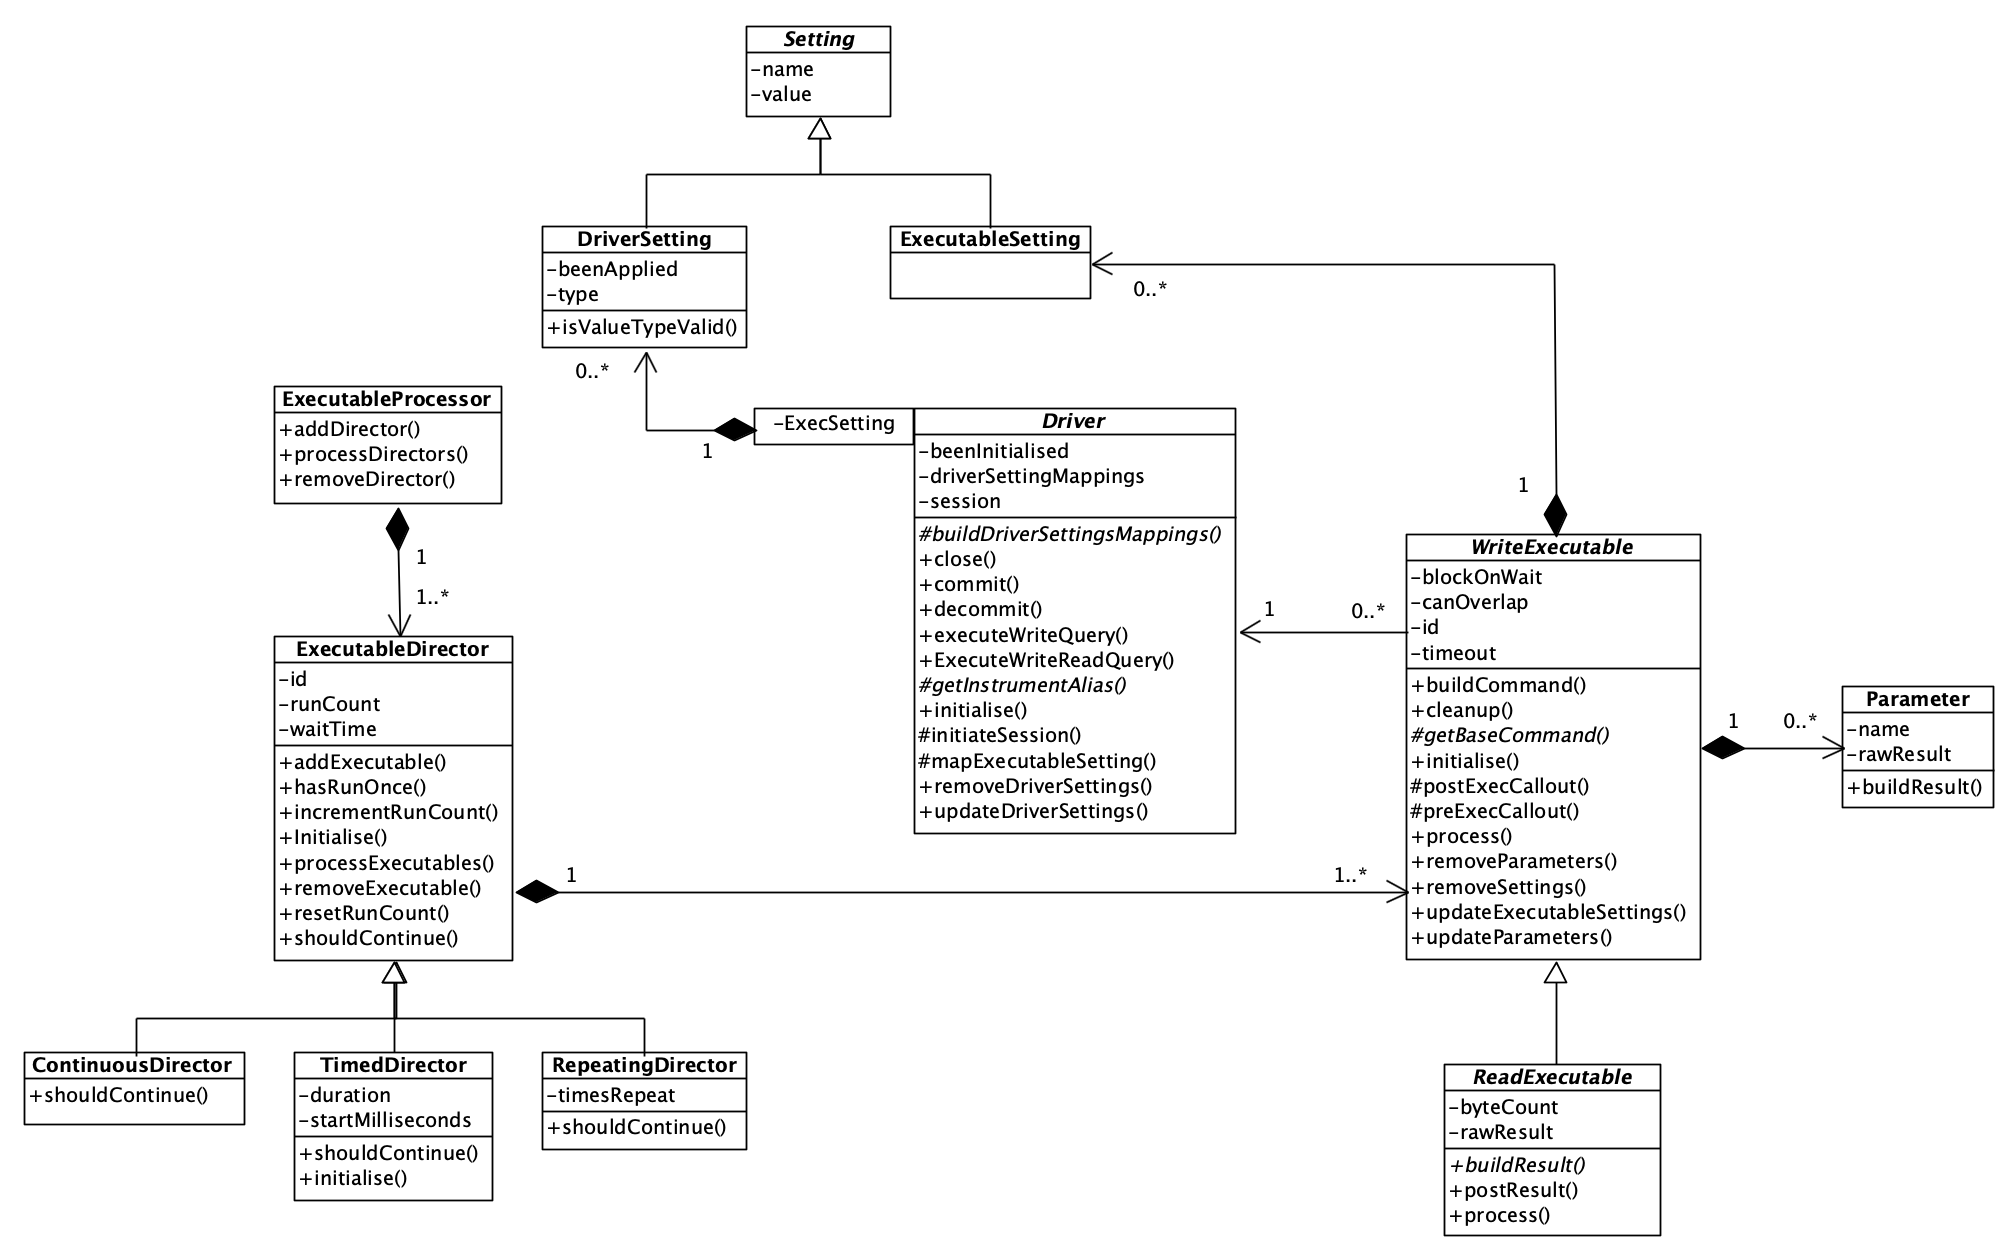
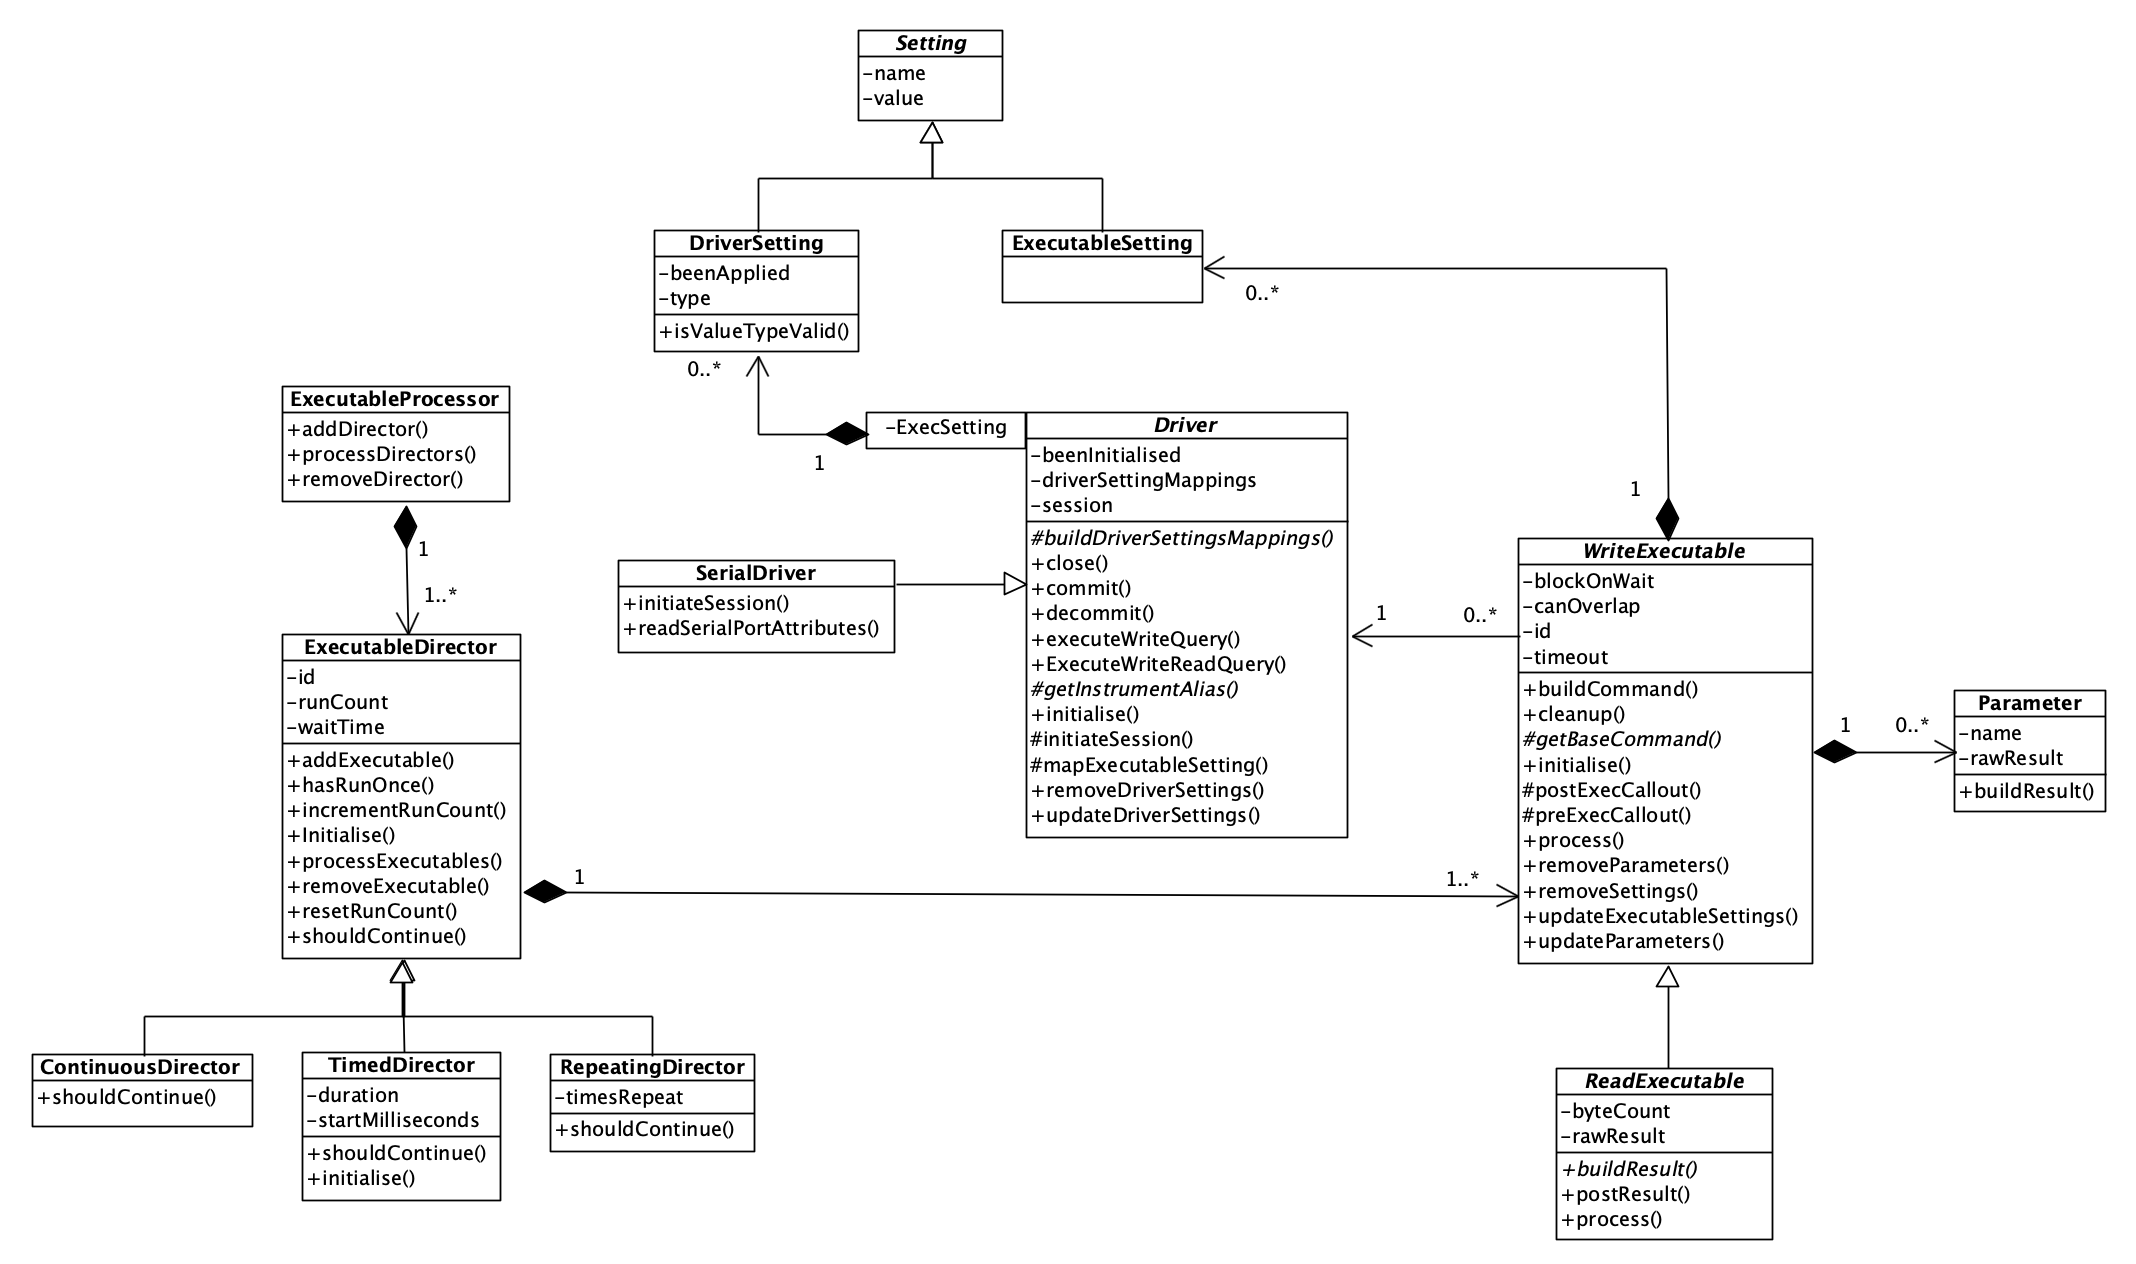
Updated Readme

Changed region(s): [[0.0, 0.0, 1.0, 0.9657], [0.708, 0.8411, 0.8312, 0.9968], [0.7696, 0.2804, 0.8004, 0.3115]]

diff --git a/Libraries/Hardware Abstraction Framework/README.md b/Libraries/Hardware Abstraction Framework/README.md
@@ -31,7 +31,7 @@ Many Executables in the framework can be used as-is in test applications but the
 
 Similarly, the Executable Directors are likely to be sufficient for most test applications but again, you can create your own by following the pattern established for the existing ones.
 
-Unless you use the same instruments that are wrapped by Drivers in the framework, it is most likely that you will have create your own for your instruments.  Again you can follow the pattern established for the existing ones; you may want to consider uploading these to the repository for inclusion in a future release.
+Unless you use the same instruments that are wrapped by Drivers in the framework, it is most likely that you will have to create your own for your instruments.  Again you can follow the pattern established for the existing ones; you may want to consider uploading these to the repository for inclusion in a future release.
 
 The rest of this document describes the framework in more detail and how you can use it.
 ### Interacting with the Framework
@@ -39,6 +39,10 @@ Your test application will interact with the framework through other means than 
 * **Pause:** Processing will be paused at the end of the current processing of Executable Director(s) - remember these could be long-running.  It does need to finish any currently running processing so as to ensure instruments are not left in an unknown state.  The Pause will timeout after 60-seconds and all processing will finish with an error being returned indicating the timeout occurred.
 * **Resume:** Processing will be resumed if paused.
 * **Stop:** Processing will stop immediately after the current processing of Executable Director(s) - again, so that instruments are not left in an unknown state.
+
+***
+There is no concept of *Abort Immediately* - the framework will always attempt to properly close an instrument down so that it is not left in an unknown state.
+***
 
 The Framework will interact with your test application through `Events` as well:
 * **Done:** Raised by the Framework when all processing has completed. You could, perhaps, on hearing this event, unblock the UI, display any messages, quit the test app, write results to a database and so on.
@@ -59,7 +63,7 @@ The framework has been mostly written using LabVIEW NXG's object oriented featur
 
 As the source is provided, you are encouraged to use one of the examples and single-step through it observing how the framework is called and how interactions play back-and-forth.
 
-In terms of processing, the framework follows a Queued Message Handler pattern which is standardised within LabVIEW NXG.  The example, although simple in itself, also uses this approach to provide a basic pattern for you to follow in your own test applications.
+In terms of processing, the framework follows a Queued Message Handler pattern which is standardised within LabVIEW NXG.  The examples, although simple in themselves, also use this approach to provide a basic pattern for you to follow in your own test applications.
 
 ***
 **A note on LabVIEW NXG's approach to object oriented programming**
@@ -69,6 +73,7 @@ NI decided that a by-value approach to objects will be used, rather than by-refe
 There is very little in the way of reflection available in the language so some actions are not as independent of implementation as they could be otherwise.
 ***
 ### Core Classes
+Note: The diagrams below are intended to show main classes and methods and are not a complete picture of the framework.
 
 ![UML class diagram of framework core classes](./images/image00.png)
 
@@ -79,7 +84,7 @@ An Executable represents a command that can be sent to an Driver for running on 
 
 There are two types of Executable:
 * **WriteExecutable:** represents a command that can be sent to an instrument but which requires no response.
-* **ReadExecutable:** represents a command that can be sent to an instrument and for which a response or result will be returned.  You will note it inherits some of its functionality from `WriteExecutable`: you don't need to run a Write Executable and a Read Executable as the latter incorporates the functionality for you.
+* **ReadExecutable:** represents a command that can be sent to an instrument and for which a response or result will be returned.  You will note it inherits some of its functionality from `WriteExecutable`: you don't need to run a Write Executable *and* a Read Executable as the latter incorporates the functionality for you.
 
 An Executable is associated with a `Driver` whose responsibility it is to undertake any instrument specific translation of a command.  The framework will arrange for the Driver to run the command at the appropriate moment.
 
@@ -89,7 +94,7 @@ There are two ways a `Driver` can run an Executable:
 
 An Executable controls this with its `canOverlap` property: if true, the Executable will be run immediately; if false, when able.
 
-A `ReadExecutable` will hold a result returned from the instrument.  It does so in a raw form, `rawResult` - that is, it provides no interpretation of that result until asked to do so by the test application calling `buildResult`.  The test application will be notified of an available result via a `result` message raised on the `Notification` queue or a raised Notifier.  The result data is the same in both cases: the Executable itself is passed back to the test app and can be used to obtain the results as a raw value (String) or a typed value.
+A `ReadExecutable` will hold a result returned from the instrument.  It does so in a raw form, `rawResult` - that is, it provides no interpretation of that result until asked to do so by the test application calling `buildResult`.  The test application will be notified of an available result via a `result` message raised on the `Notification` queue or a raised `Notifier`.  The result data is the same in both cases: the Executable itself is passed back to the test app and can be used to obtain the results as a raw value (String) or a typed value.
 
 Some Executables can take parameters to send along with the base command.  These are represented by the `Parameter` class.  The framework will automatically add any requested parameters to the command before it is sent to the instrument: you just need to add the ones you want to the Executable when you create an instance of it.  A Parameter will hold a result, if available, and is capable of parsing that into a typed value for the test application.
 
@@ -109,6 +114,8 @@ You can see that all is needed is a concrete implementation of `getBaseCommand` 
 
 `Driver` is responsible for interfacing with actual test instruments providing the necessary mappings between a generic test language and instrument-specific language.  By doing this, a user of the framework can standardise on names for things like commands, parameter names, setting names and so on and leave the Driver to translate on an instrument-by-instrument basis.
 
+`SerialDriver` should be used for instruments that will use a Serial communication method, e.g. Arduino Uno.  This operates the same way as the standard Driver but expects a device to be available on a mapped `COM` port rather than on, say, a `USB` port.
+
 It is envisaged that future versions of the framework will be able to load mappings between the generic and specific from an external source to allow tests to be more configurable.
 
 A Driver will execute a query for an Executable when directed by the framework, obtaining a response as necessary.
@@ -120,6 +127,10 @@ So what do you need to do?  When you instantiate an Executable you need to give 
 ![UML class diagram of concrete Driver classes](./images/image04.png)
 
 You can see here that all you need to provide is a concrete implementation for `buildDriverSettingsMappings` and `getInstrumentAlias` as the framework handles everything else.
+
+The Arduino Uno Driver also provides an overridden `readSerialPortAttributes` because I want to communicate with it at 115200 baud, rather than the default 9600 baud, and I need the initialisation to wait 2000milliseconds after opening a port to ensure the Arduino will be available to process commands.
+
+These concrete Drivers are available in namespace `Z_Implementation`.
 
 #### Setting
 ![UML class diagram of Setting classes](./images/image05.png)
@@ -134,6 +145,8 @@ You add Executable Settings to the Executable as you instantiate it.  If you cre
 
 ***
 **Note:** The framework is currently very SCPI focussed and settings aren't actually used yet.  As the framework evolves it is envisaged they will become more integrated and the feature finished.
+
+Therefore, currently, you should not use Settings as they are not implemented.
 ***
 
 #### Processing
@@ -190,6 +203,54 @@ The lead-in is the same as a Write Executable but the additional steps are:
 * **Write Result:** saves the unformatted Instrument response for later processing
 * **Write Param Vals:** saves the unformatted Parameter responses for later processing
 * **Post Result:** adds a `result` message on the `Notification Queue` with the Executable set as message data.  The test application should read this message and arrange for the result to be processed as required - not forgetting that results may be stored in the parameters if used.
+
+## Examples
+Example usage of the framework is provided so that you can use these as a basis of your own test applications but also get a better idea of how the framework actually works.  All examples are in folder `HAF Examples`.
+
+The examples are provided in an order of increasing complexity and show different Executables and Executable Directors as well as the use of Events and Notifiers for result handling.  The basic test application follows the same structure (which could be deemed 'overkill' for the simplest example!)
+
+They make use of the Drivers found in namespace `Z_Implementation`.  To run these with your own instruments you will need to create your own Drivers and make the necessary changes to the example implementations.  In some cases it may be as simple as ensuring that the VI `Map To Driver` in class `ResourceEnumerator` is modified and that you have followed the implementation pattern for the existing instruments.
+
+### 1-Instrument Identification
+This example enumerates any instruments connected to the PC running LabView NXG and presents the list to the user.  Selecting an instrument, by name, and pressing 'Get Id' will return the instrument identity.  
+
+This is accomplished using the Driver associated to the selected name, the `Identity` Executable and an `Executable Director` (one-time execution.)  Results are provided on the `Messages` queue for handling and displaying on the UI.
+
+If you use a Serial device, e.g. Arduino, a sample sketch is provided that will respond correctly to the commands the framework sends it.
+
+### 2-Take Measurement
+This example enumerates instruments connected to the PC, but the user should select a DMM - Keithley DMM6500 using my instruments - as the example 'measures' a selected function.  The UI allows selection of a function that the DMM knows about, e.g. DC Voltage, AC Voltage, Current, Resistance, Frequency etc.  It also allows the selection of parameters (Buffer Elements for the DMM6500) that are passed along with the command.
+
+You should set up a test circuit and connect the DMM to it according to the function that will run.
+
+When ready, press 'Measure' and the DMM will attempt to take the correct measurement and display the result, including the results of any parameters also selected.  The DMM identity is also returned.
+
+This uses the `Identity` Executable; the `Measure` Executable configured with the selected function and parameters; the `User Defined Write` Executable to create a buffer which the DMM needs (this Executable allows you to provide a hand-crafted SCPI command to be executed); and an `Executable Director`.  Results are provided on the `Messages` queue for handling and displaying on the UI. 
+
+### 3-Generate Voltage
+This example makes use of a PSU instrument to generate a voltage and a DMM instrument to measure that voltage (in the specific case, a Rohde & Schwarz HMC8043 and a Keithley DMM6500).  Select the instruments correctly, enter a Voltage (in mV) and click on Generate.
+
+You will need to connect the PSU and DMM to a test circuit for this to work.
+
+This uses the `Identity` Executable; the `Voltage` Executable; the `Measure` Executable configured with the Voltage function and no additional parameters; and two `Executable Director` instances - one for the identities and one for the generation and measure.  Results are provided on the `Messages` queue for handling and displaying on the UI. 
+
+### 4-Waveform Measurement
+This example makes use of a DMM instrument to continually take measurements, displaying the results on a Waveform graph.  It will run indefinitely, until 'Stop' is pressed.
+
+You will need to connect the DMM to a suitable test circuit for the function you select.  For example, I connected the DMM to a potentiometer to measure the change in resistance as the pot was adjusted.
+
+The example responds to the Pause and Resume events.
+
+This uses the `Identity` Executable; the `Measure` Executable (no parameters); a `Executable Director` for the identity; and a `Continuous Director` for the measure.  Results are provided through the `Results Notifier` because the framework will block the main processing loop whilst it does its work - thus the UI cannot be updated via the previously used `Messages` queue.
+
+### 5-Generate Stepped Voltage
+This example makes use of a PSU to generate a voltage and a DMM to measure the voltage.  The PSU is directed to output a voltage in steps, from a start value to an end value in increments.  The DMM measures every step change and the result is displayed on a waveform.
+
+You will need to connect the PSU and DMM to a suitable test circuit.  For example, a simple circuit is to provide voltage across a resistor and connect the DMM across the resistor.
+
+This example also responds to the Pause and Resume events.
+
+This uses the `Identity` Executable; the `Voltage` Executable for the voltage generation; the `measure` Executable configured for Voltage measurement; a `Executable Director` for the identities and a `Repeating Director` for the generate and measurement.  It demonstrates the use of the Voltage executable with an increment which changes the voltage-to-be-generated to the next value after every execution.  The Repeating Director is configured to ensure that it runs the Generate executable until the End Voltage is reached. Again, results are provided through the `Results Notifier` because the framework will block the main processing loop whilst it does its work - thus the UI cannot be updated via the previously used `Messages` queue.
 
 ## Summary
 Whilst not particularly complicated, it's reasonably difficult to document clearly what happens.  It is highly recommended that you follow through one of the existing examples to see how it works.  These examples also form a template for your own test application so that it deals with events and notifications in a well-controlled and performant manner.
